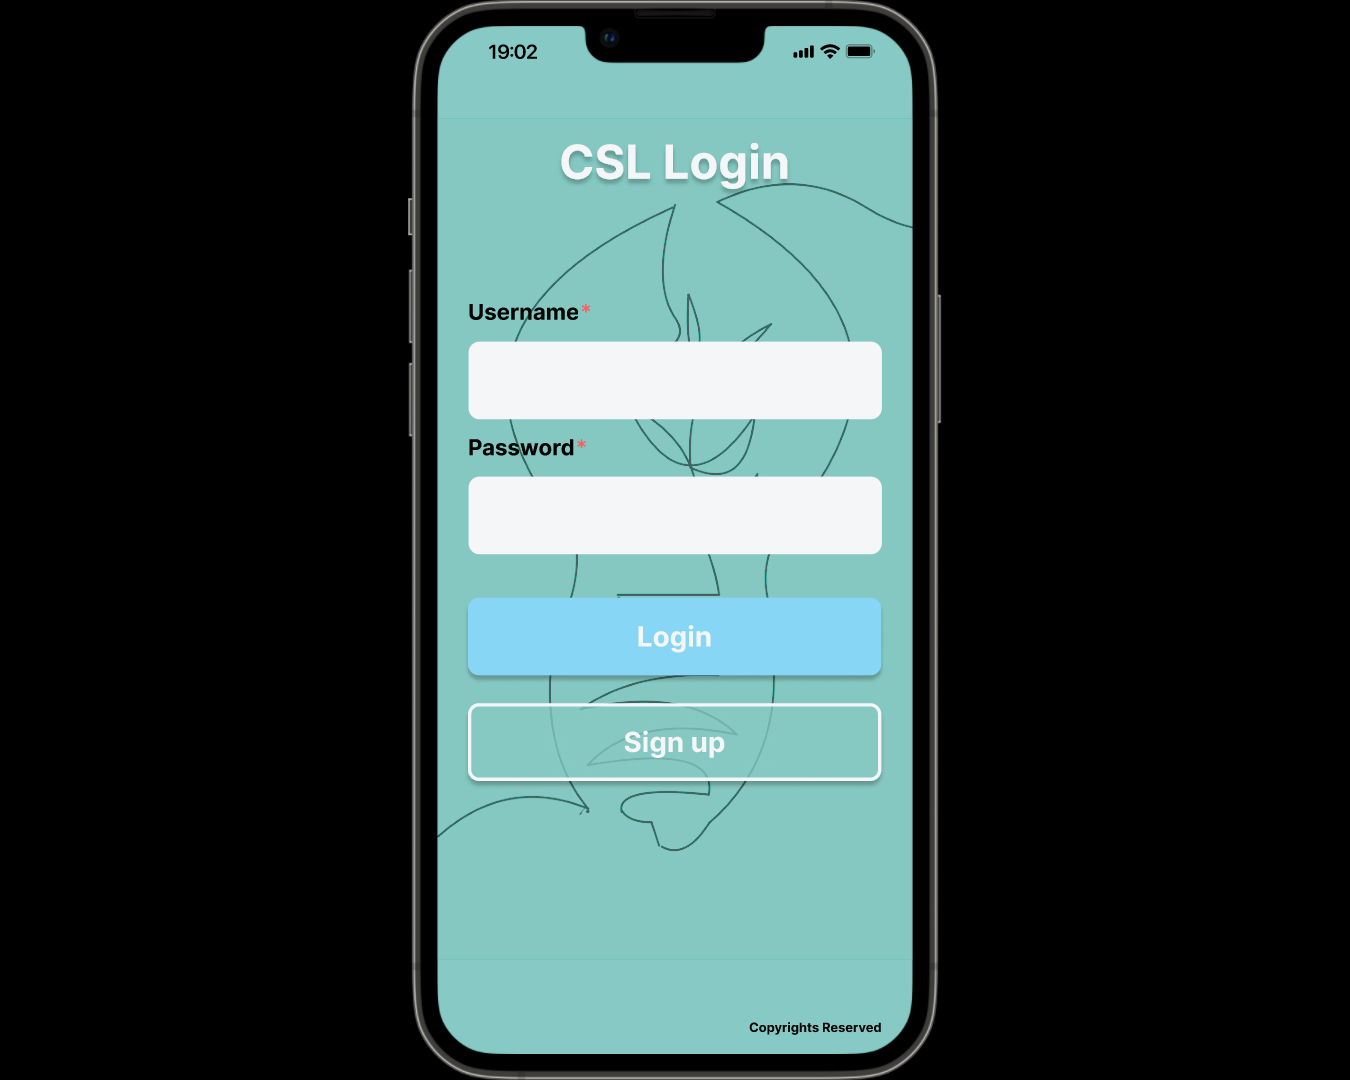
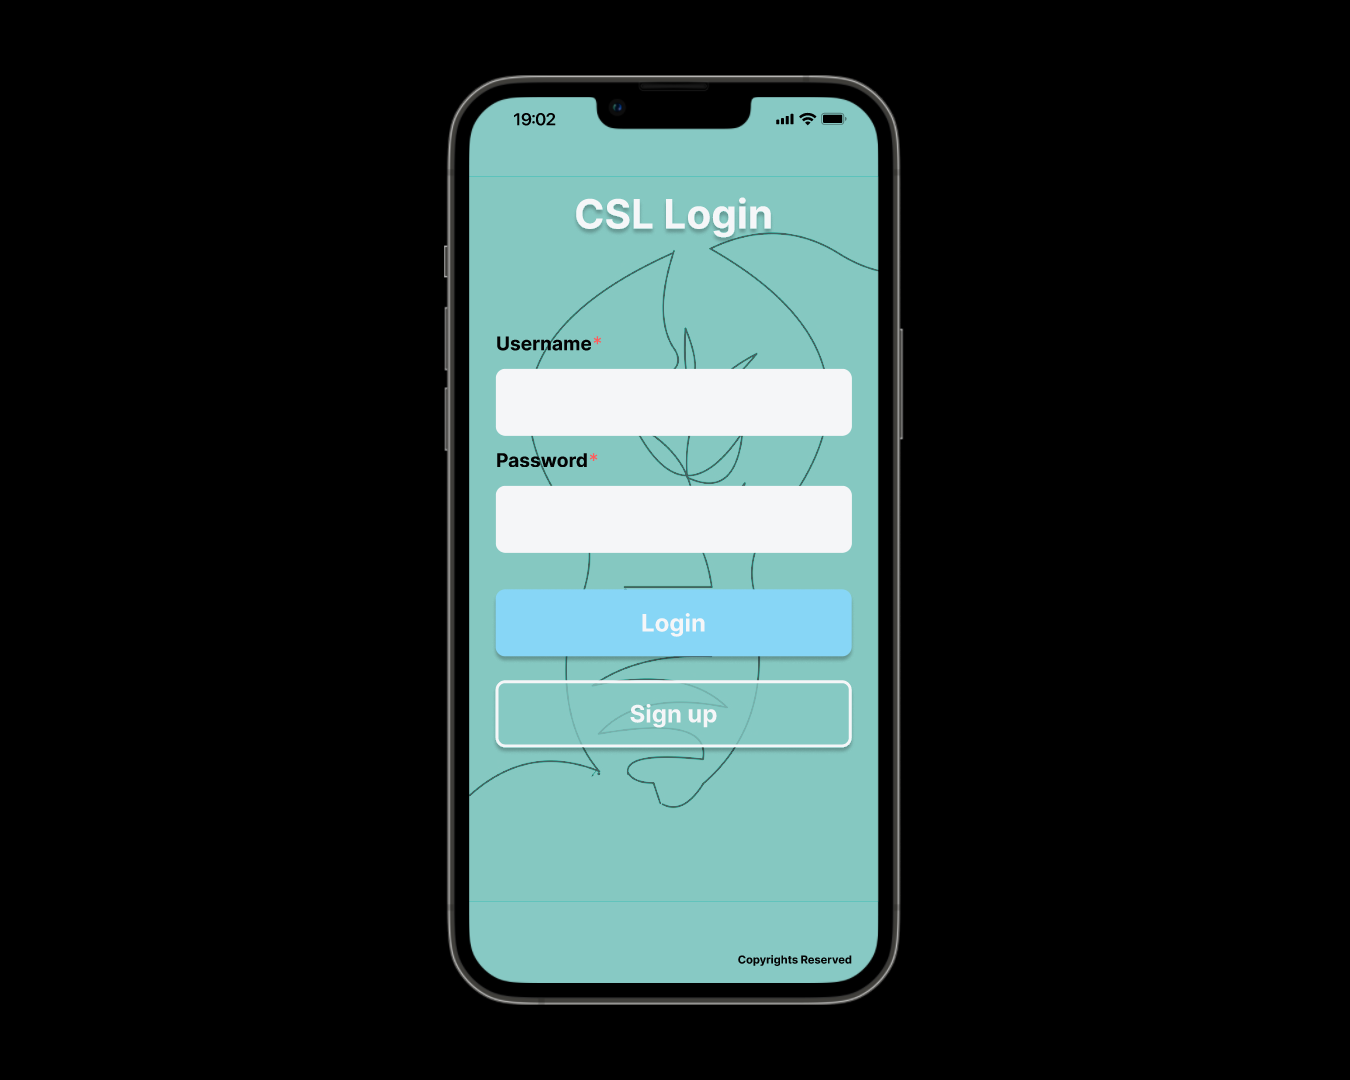
update thumbnails

Changed region(s): [[0.28, 0.0, 0.7156, 1.0]]

diff --git a/index.html b/index.html
@@ -37,7 +37,7 @@
                         <p>UI/UX Prototype</p>
                     </div>
                 </a>
-                <a href="https://www.figma.com/proto/xKSRKjGc6xRjjXQiVZ80LN/CMPM-178-Hi-fi-Prototyping-Team-2?page-id=1%3A4&node-id=243-3288&viewport=370%2C11%2C0.02&t=K56ZL9qCtPjbKi3A-1&scaling=scale-down&content-scaling=fixed&starting-point-node-id=243%3A3288" class="project-card">
+                <a href="https://www.figma.com/proto/xKSRKjGc6xRjjXQiVZ80LN/CMPM-178-Hi-fi-Prototyping-Team-2?page-id=1%3A16&node-id=2-24&p=f&viewport=496%2C77%2C0.06&t=xsRaHQgIpEwKlOwZ-1&scaling=min-zoom&content-scaling=fixed" class="project-card">
                     <img src="assets/safespace_thumb.png" alt="Project 10">
                     <div class="project-info">
                         <h3>Safe Space</h3>
